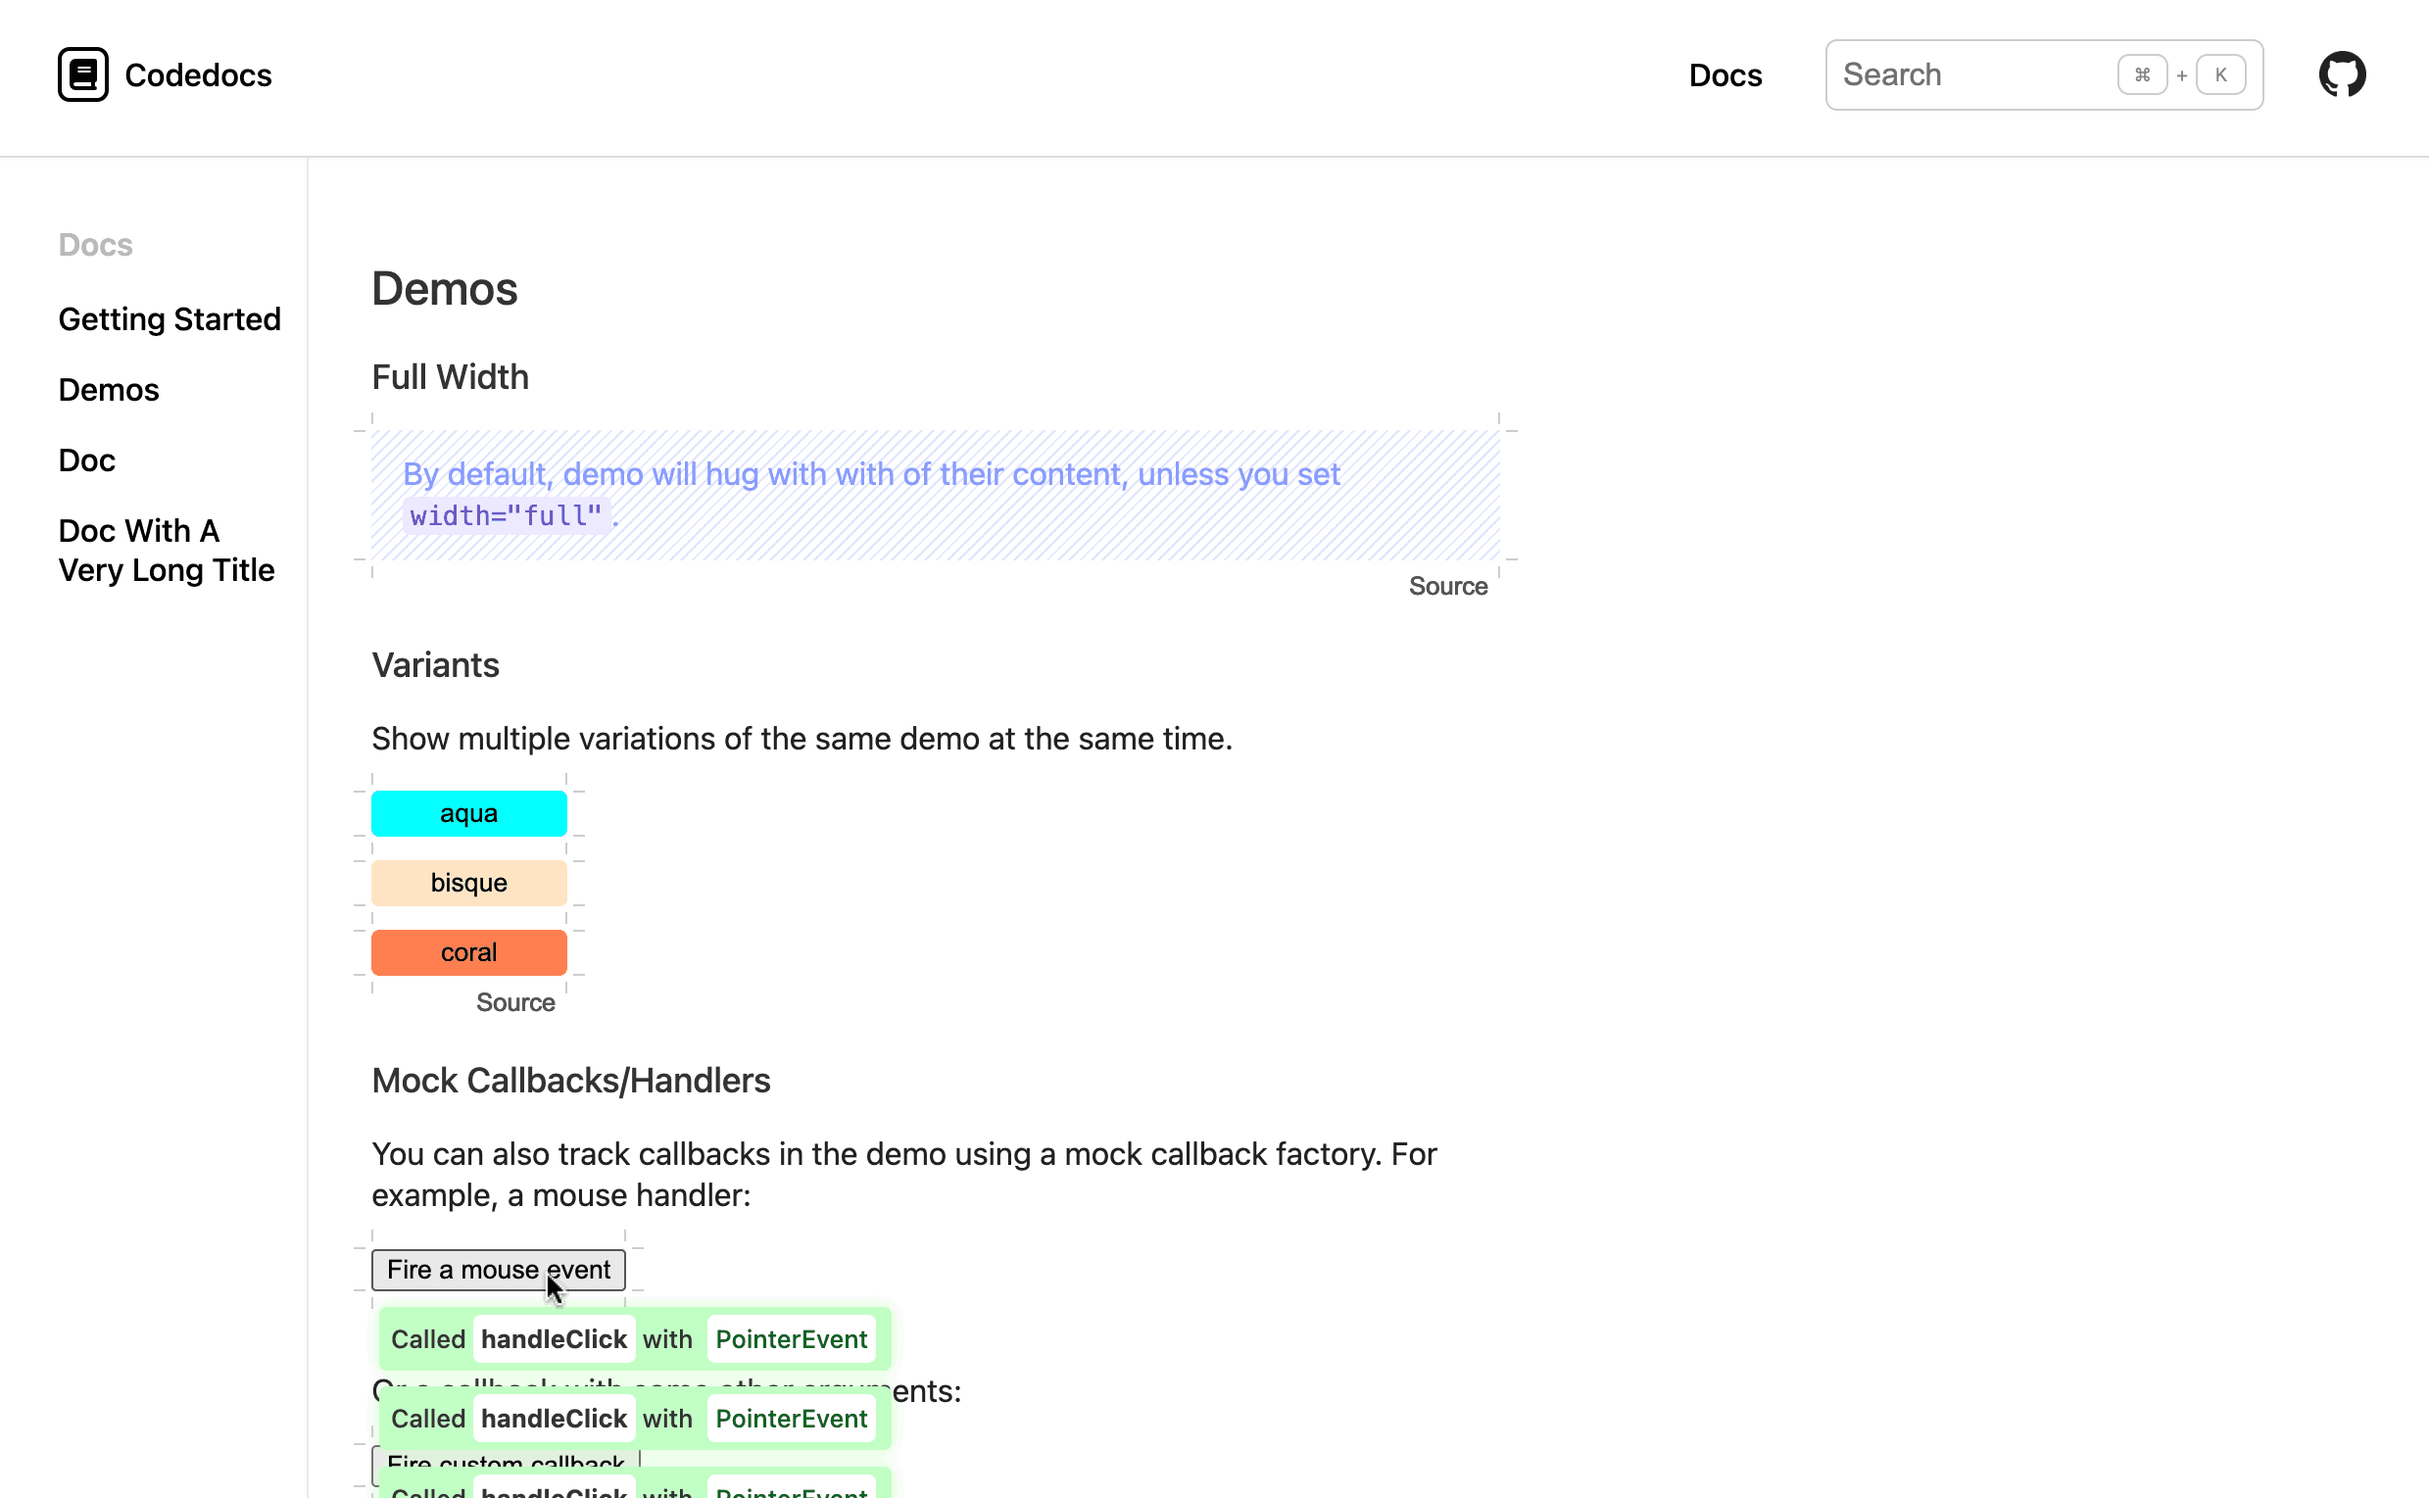
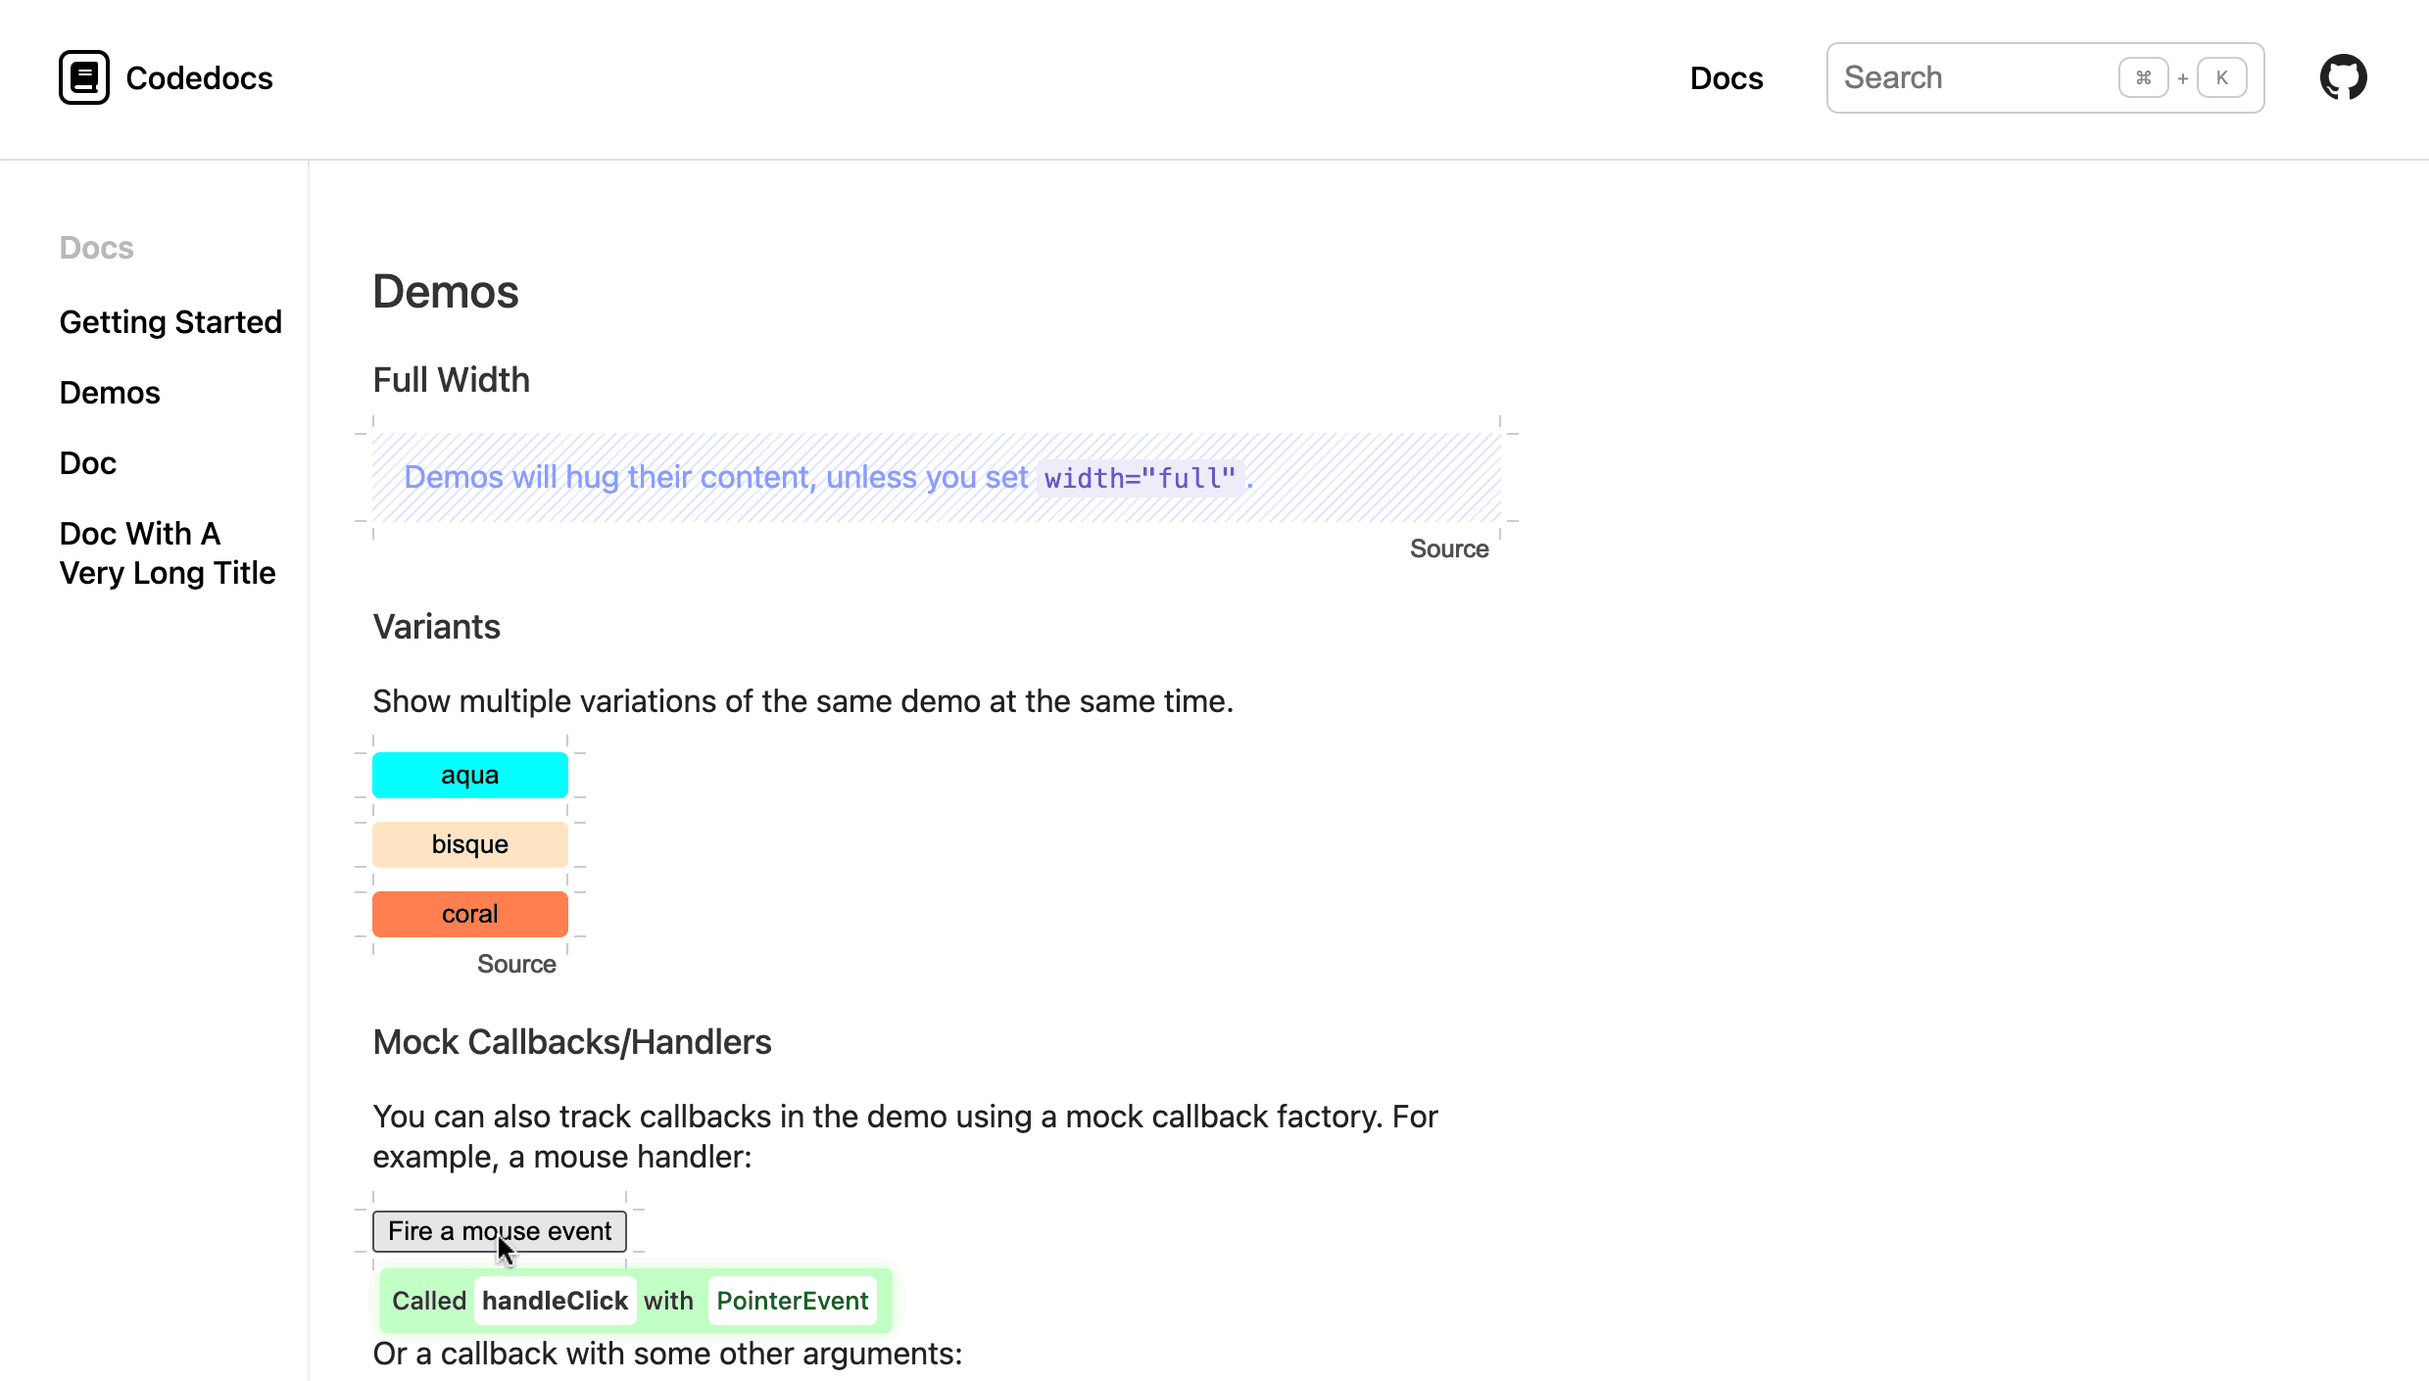
README

diff --git a/docs/Demo.docs.tsx b/docs/Demo.docs.tsx
@@ -10,8 +10,7 @@ export const DemoDocs = (
     <h2>Full Width</h2>
     <Demo width="full">
       <Placeholder>
-        By default, demo will hug with with of their content, unless you set{" "}
-        <code>width="full"</code>.
+        Demos will hug their content, unless you set <code>width="full"</code>.
       </Placeholder>
     </Demo>
     <h2>Variants</h2>

diff --git a/README.md b/README.md
@@ -2,30 +2,36 @@
 
 **Codedocs** is a Storybook replacement that's designed for the professional application developer. It presumes you've already set up a React application build pipeline, that you're happy with it, and you just want to document your components.
 
-If you're a beginner, you can still use Codedocs, but you may want to start with a scaffold like [Confgen](https://github.com/ambic-js/confgen). Confgen can generate a React app for you with Codedocs preconfigured.
+## Table of contents
 
-### Table of contents
-
-- [Codedocs vs Storybook](#codedocs-vs-storybook)
+- [Features](#features)
 - [How it works](#how-it-works)
 - [What it doesn't do](#what-it-doesnt-do)
 - [Context Providers](#context-providers)
-- [Customizing](#customizing)
 - [Example](#example)
 - [Future](#future)
 - [Inspiration](#inspiration)
 
-### Features
+## Features
+
+### Public-facing documentation
 
 Use unrestricted HTML to build your documentation. Codedocs looks great as a public-facing documentation site:
 
 <img alt="screenshot" src="docs/html.png" width="826" />
 
-Real demo code, taken directly from your source files:
+### Real code samples
+
+Taken directly from the demos in your source files. These can be JSX, or full renderers including hooks and other boilerplate.
 
 <img alt="screenshot" src="docs/source.png" width="422" />
 
-Variants:
+You can even do demos that require multiple interacting parts, for example to demonstrate a context provider and a hook:
+
+<img alt="screenshot" src="docs/multi-component-demos.png" width="410" />
+
+
+### Variants
 
 ```tsx
 <Demo
@@ -37,43 +43,13 @@ Variants:
 
 <img alt="screenshot" src="docs/variants.png" width="340" />
 
-Multi-component demos when you need to demonstrate hooks together with context providers:
-
-<img alt="screenshot" src="docs/multi-component-demos.png" width="410" />
+### And more...
 
 Simple state helper for demos that just need basic set/get functionality:
 
-```tsx
-<Demo
-  inline
-  defaultValue={""}
-  render={({ value, setValue }) => (
-    <input
-      type="text"
-      value={value}
-      onChange={(e) => setValue(e.target.value)}
-    />
-  )}
-/>
-```
-
 <img alt="screenshot" src="docs/state.gif" width="411" />
 
-### Codedocs vs Storybook
-
-Design choices in Codedocs have been made to address some places where Storybook missed. Each of these issues has influenced Codedocs design:
-
-|     | Storybook                                                                                                                          | Codedocs                                                                                                           |
-| --- | ---------------------------------------------------------------------------------------------------------------------------------- | ------------------------------------------------------------------------------------------------------------------ |
-| 1   | Storybook error handling is not great. Stories silently stop loading. The dev server frequently has to be restarted for no reason. | Codedocs uses your existing build pipeline                                                                         |
-| 2   | MDX files don't have type checking, and TSX files can't do proper prose documentation.                                             | Everything is in TSX files, fully typed. And you just drop your demos and API references into your prose JSX block |
-| 3   | Storybook has its own special build environment that's different from your app's. It adds a whole layer of debugging.              | It uses your existing build pipeline                                                                               |
-| 4   | The default Storybook layout is not very good for a public demonstration site.                                                     | It's designed as public documentation site first                                                                   |
-| 5   | Your documentation uses Storybook's design system, not YOUR design system that you worked so hard to create.                       | The UI is 100% swappable for your own                                                                              |
-| 6   | It's slow to start up and hot reloading is unreliable.                                                                             | Startup time is as fast as you can make your build pipeline go                                                     |
-| 6   | Adding types to your stories is... optional. Each new story is a new chance for someone to decide not to type anything.            | Everything is in TSX files, fully typed                                                                            |
-
-### How it works
+## How it works
 
 Your documentation files can still live alongside your code, but they just export JSX elements:
 
@@ -97,8 +73,9 @@ export const ButtonDocs = (
 )
 ```
 
-Then, you can go ahead and use create-react-app or install Vite and throw an index.html somewhere,
-that's up to you. To get the site working, all you need to do is render `<DocsApp>` in there:
+Then, you can go ahead and use Vite, or Bun, or whatever you already are using
+to build your app and throw an index.html somewhere. That's up to you. To get
+the site working, all you need to do is render `<DocsApp>` in there:
 
 ```tsx
 import { ButtonDocs } from "./Button.docs"
@@ -109,27 +86,11 @@ import { render } from "react-dom"
 render(<DocsApp docs={[ButtonDocs]} />, document.getElementById("root"))
 ```
 
-I can't instruct you on how to start that, because you can set up the build however you want. That's
-the point, you can just use the same build infrastructure you've surely already set up to build your
-Design System.
+You can set up the build however you want. That's the point, you can just use
+the same build infrastructure you've surely already set up to build your Design
+System.
 
-### What it doesn't do
-
-- **Doesn't** work with anything other than React and React Router. If you are using Svelte or Ember you're out of luck.
-- **Doesn't** provide interactive "knobs". Demos are just code samples. If you want to change the demo, you change the code.
-- **Doesn't** magically scan through your source tree and "analyze" it. Magic is great when it works, until it doesn't. Your Codedocs are _just a normal React component_. You build it right alongside your components, within the same build system.
-- **Doesn't** set up the devevelopment or deploy scripts for you. You are a
-- professional application developer. You've
-  probably already set up lots of infrastructure for deploying apps using your Design System. You
-  can keep doing that. The `codedocs` package provides some React components that make it easy to turn
-  documentation files into site.
-- **Doesn't** look good by default. You provide all the components that are used to render the site. That's the
-  point: document your Design System _in_ your Design System.
-
-The other thing is doesn't do is _have any dependencies_. You provide React and React Router as
-peerDependencies, and that's it.
-
-### Context Providers
+## Context Providers
 
 If you're maintaining a design system, or just a component library, you likely have:
 
@@ -162,30 +123,20 @@ import reset from 'emotion-reset';
 />
 ```
 
-### Customizing
+## What it doesn't do
 
-If you want to render the Codedocs UI yourself, within your own Design System, you may override any or all of its components. You can copy/paste the originals in [/lib/components](/lib/Components) to get started and make sure you're following the same API:
+- **Doesn't** work with anything other than React and React Router. If you are using Svelte or Ember you're out of luck.
+- **Doesn't** provide interactive "knobs". Demos are just code samples. If you want to change the demo, you change the code.
+- **Doesn't** magically scan through your source tree and "analyze" it. Magic is great when it works, until it doesn't. Your Codedocs are _just a normal React component_. You build it right alongside your components, within the same build system.
+- **Doesn't** set up the devevelopment or deploy scripts for you. You are a professional application developer. You've probably already set up lots of infrastructure for deploying apps using your Design System. You can keep doing that. The `codedocs` package provides some React components that make it easy to turn documentation files into site.
 
-```js
-<DocsApp
-  docs={...}
-  Columns={({ children }) => ...}
-  LeftColumn={({ children }) => ...}
-  MainColumn={({ children }) => ...}
-  NavList={({ children }) => ...}
-  NavHeading={({ children }) => ...}
-  NavItem={({ children }) => ...}
-  NavLink={({ children, to }) => ...}
-  PageHeading={({ children }) => ...}
-  DemoHeading={({ children }) => ...}
-/>
-```
+The other thing is doesn't do is _have any dependencies_. You provide React and React Router as peerDependencies, and that's it.
 
-### Example
+## Example
 
-For an example, check out Codedocs own docs in [/docs](/docs). You can see these running at https://codedocs.ambic.app.
+For an example, check out Codedocs own docs in [/docs](/docs). You can see these running by cloning this repo and running `npm run start:docs:dev`.
 
-### Future
+## Future
 
 The general philosophy of Codedocs is
 
@@ -204,7 +155,7 @@ Roadmap to 1.0
 - [x] Demos with state, hooks, etc
 - [x] Extract source vía macro
 - [x] Show events emitted from demos
-- [ ] Variant demos
+- [x] Variant demos
 - [ ] ApiReference
 - [ ] Dark mode
 - [ ] Contact sheet
@@ -213,7 +164,7 @@ Roadmap to 1.0
 - [ ] Visual tests
 - [ ] Fullscreen demos
 
-### Inspiration
+## Inspiration
 
 - https://wattenberger.com/blog/react-and-d3
 - https://stitches.dev/docs/variants
